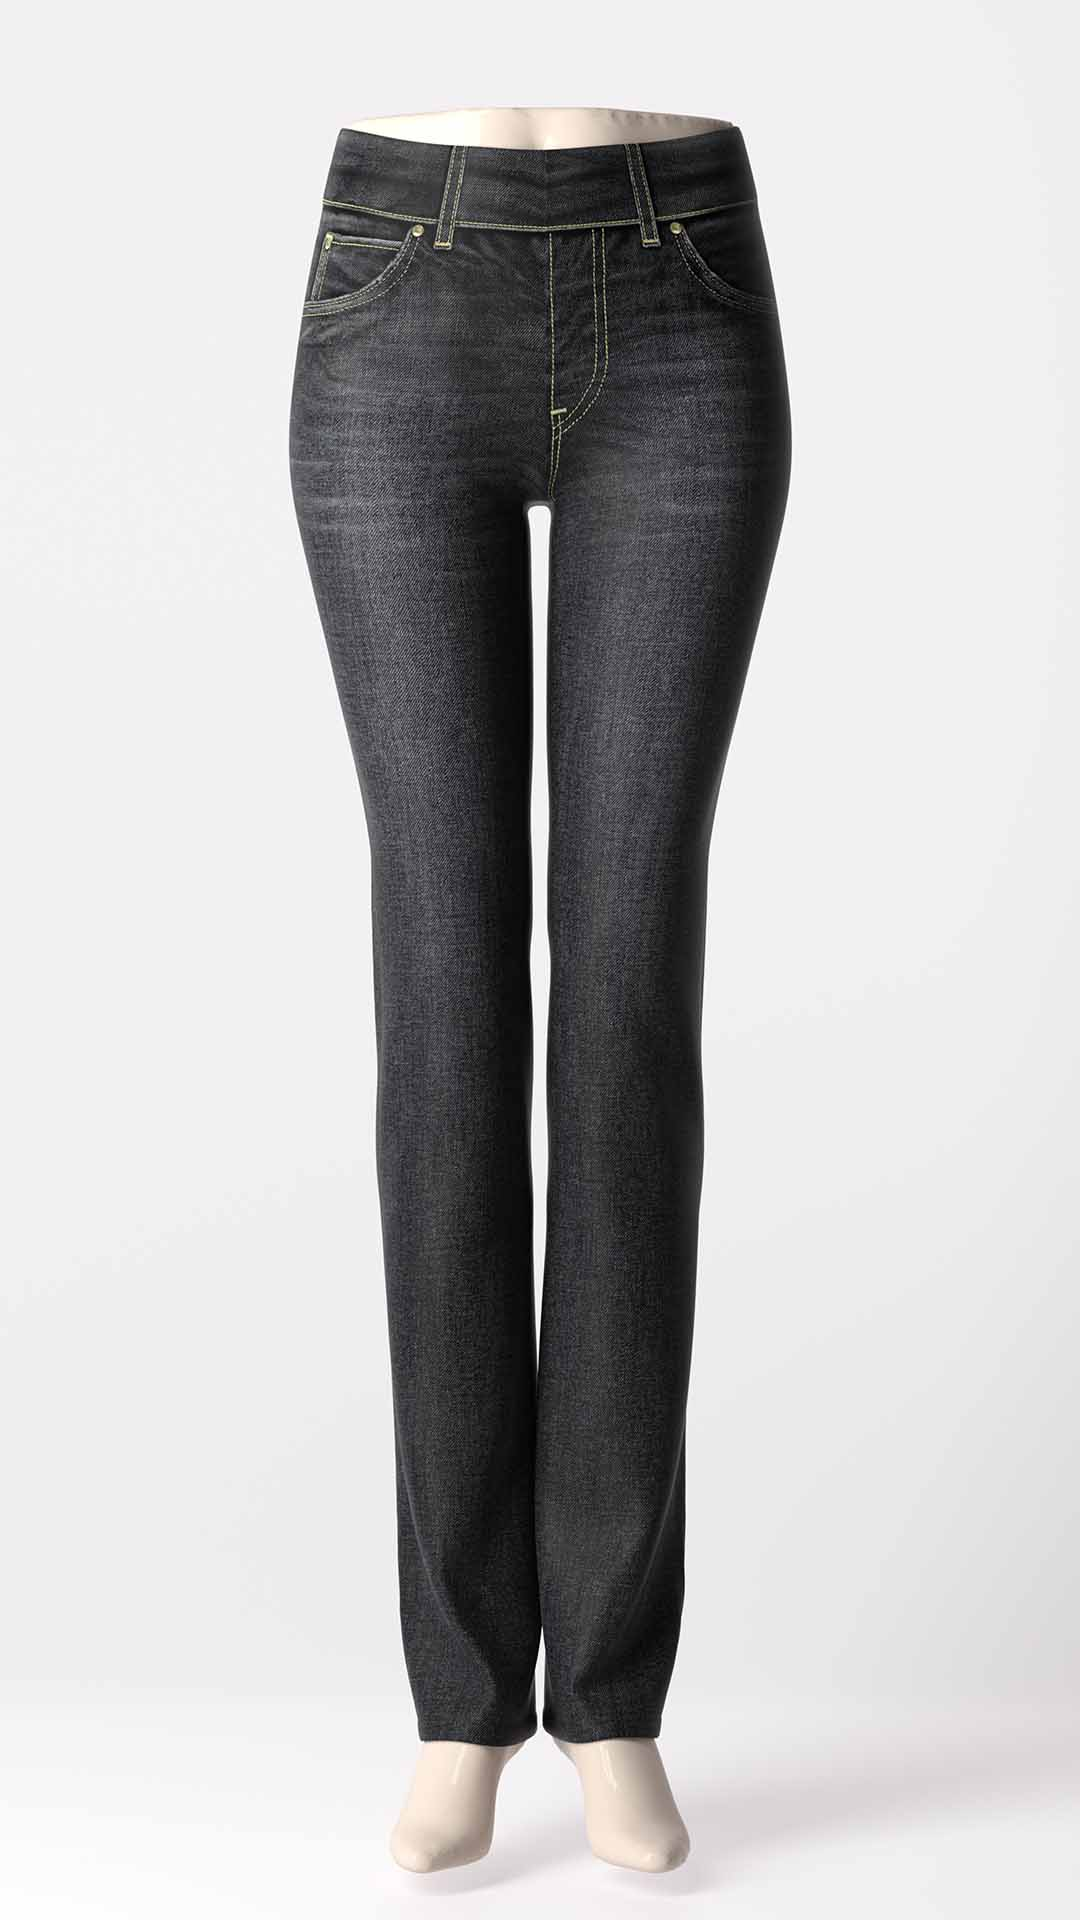
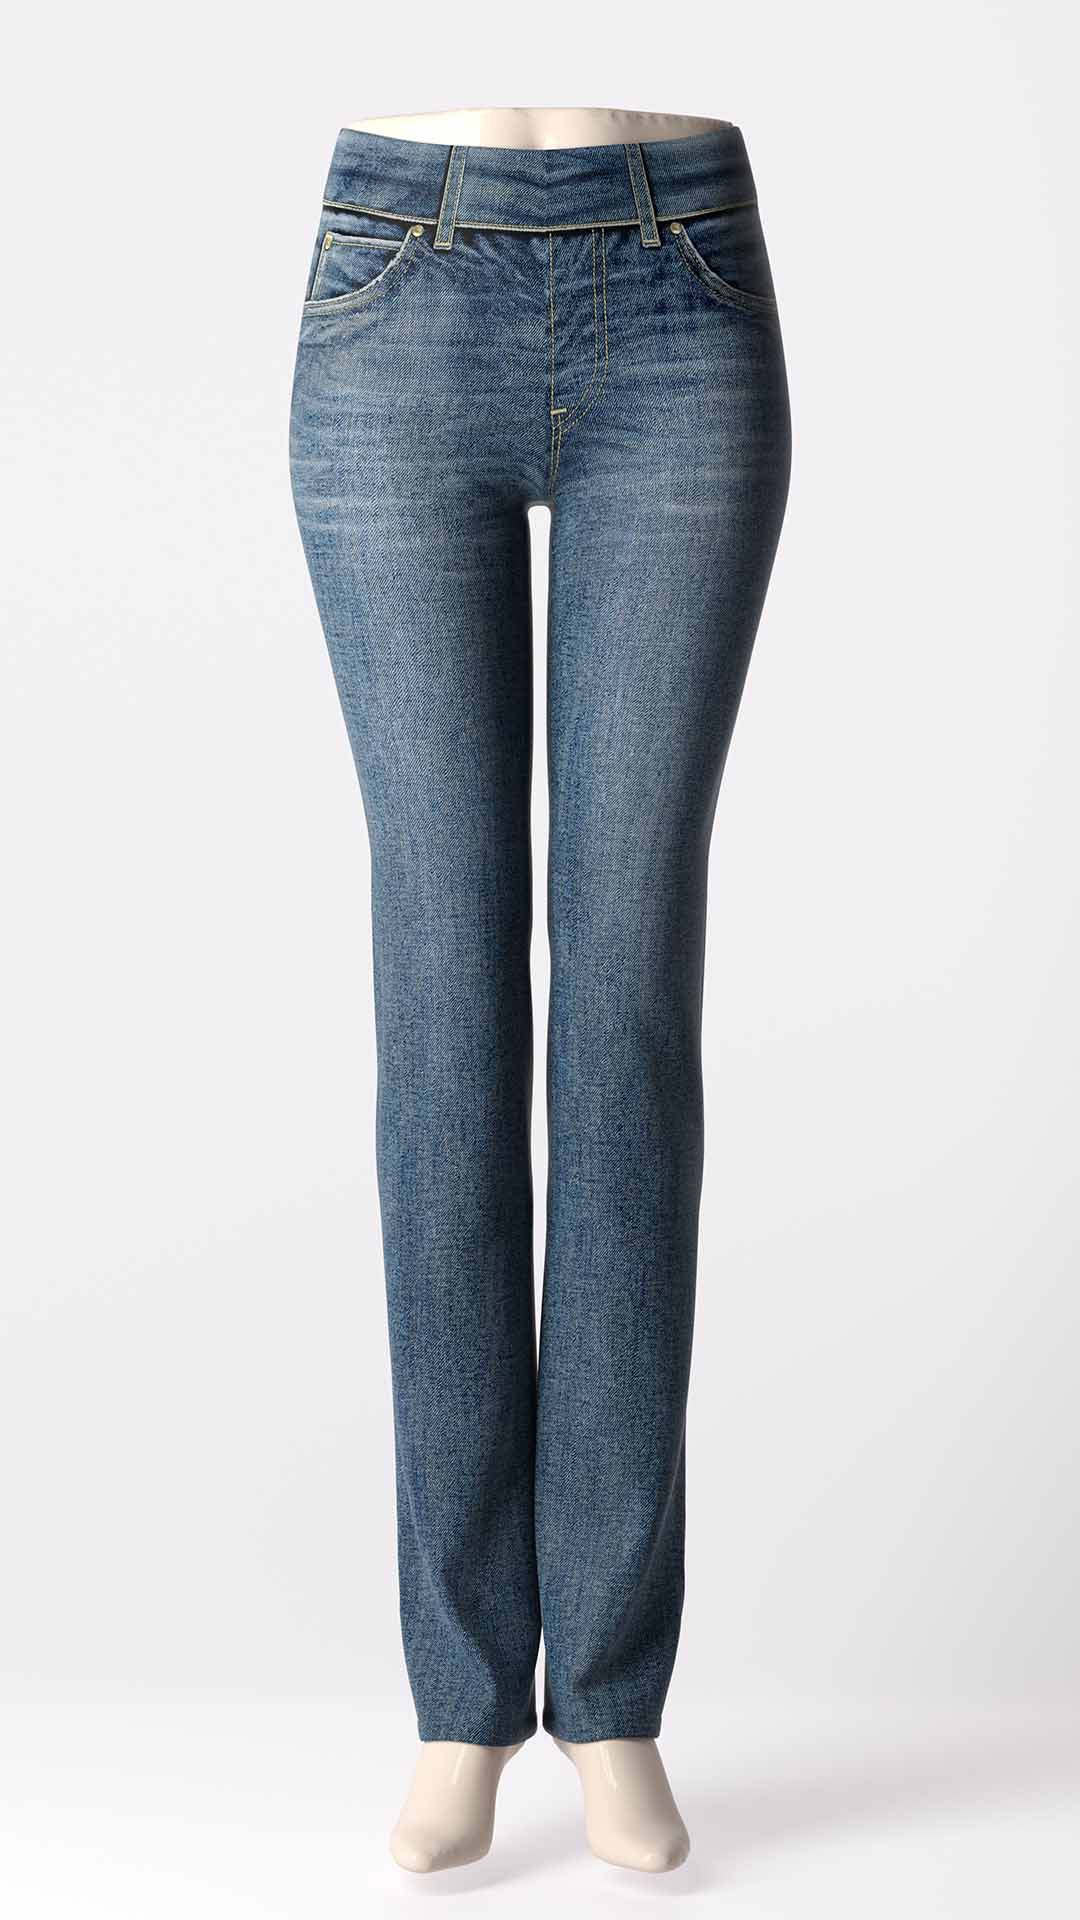
presentation_20210128

Changed region(s): [[0.2444, 0.0625, 0.7333, 0.9062]]

diff --git a/21SS_Leilian.html b/21SS_Leilian.html
@@ -647,7 +647,7 @@
 			{"productNumber":"0102285" ,"productName":"シャツカラーチュニック 2285"		,"colorCode":"06" ,"colorSubCode":"32" ,"productReleaseDate":"2021/2/8"}
 			*/
 			{"productNumber":"9999998" ,"productName":"Lamuser"	,"colorCode":"98" ,"colorSubCode":"00" ,"productReleaseDate":"2021/2/8"},
-			{"productNumber":"9999999" ,"productName":"Jeniee"		,"colorCode":"99" ,"colorSubCode":"03" ,"productReleaseDate":"2021/2/8"}
+			{"productNumber":"9999999" ,"productName":"Jeniee"		,"colorCode":"99" ,"colorSubCode":"04" ,"productReleaseDate":"2021/2/8"}
 		];
 
 		var productInfo = {
@@ -720,7 +720,7 @@
 
 
 			"9999998":{color:"98", "98":{colorSub:"00"}},
-			"9999999":{color:"99", "99":{colorSub:"03"}}
+			"9999999":{color:"99", "99":{colorSub:"04"}}
 		};
 
 		// "01":{colorSubs:["37","88","92"], "37":true, "88":true, "92":true},
@@ -827,11 +827,11 @@
 			},
 
 			"9999998":{colors:["98"],
-				"98":{colorSubs:["00","01","02"], "00":true}
+				"98":{colorSubs:["00","01","03"], "00":true}
 			},
 
 			"9999999":{colors:["99"],
-				"99":{colorSubs:["03","04","05"], "03":true}
+				"99":{colorSubs:["04","05","06"], "03":true}
 			},
 		};
 
@@ -878,10 +878,11 @@
 		var colorSubName = {
 			"00": "ホワイト",
 			"01": "ブルー",
-			"02": "ライトピンク",
-			"03": "ブルー",
-			"04": "ブラック",
-			"05": "ベージュ",
+			"02": "ピンク",
+			"03": "ライトピンク",
+			"04": "ブルー",
+			"05": "ブラック",
+			"06": "ベージュ",
 
 			"30": "ブルー",
 			"31": "ブルー",
